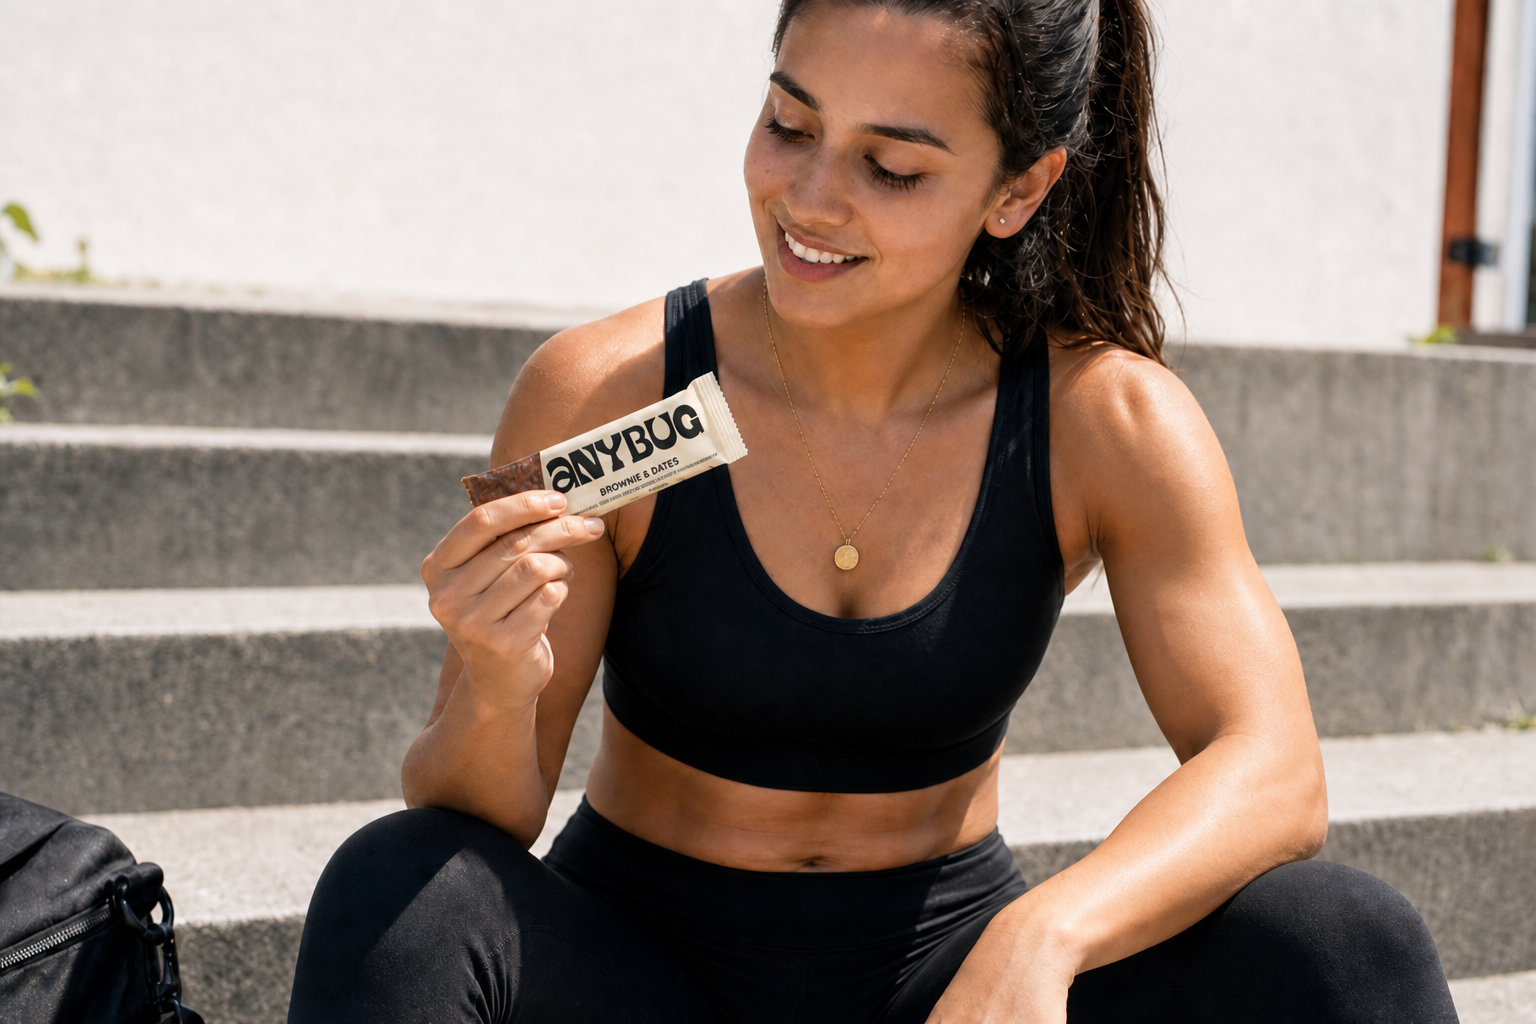
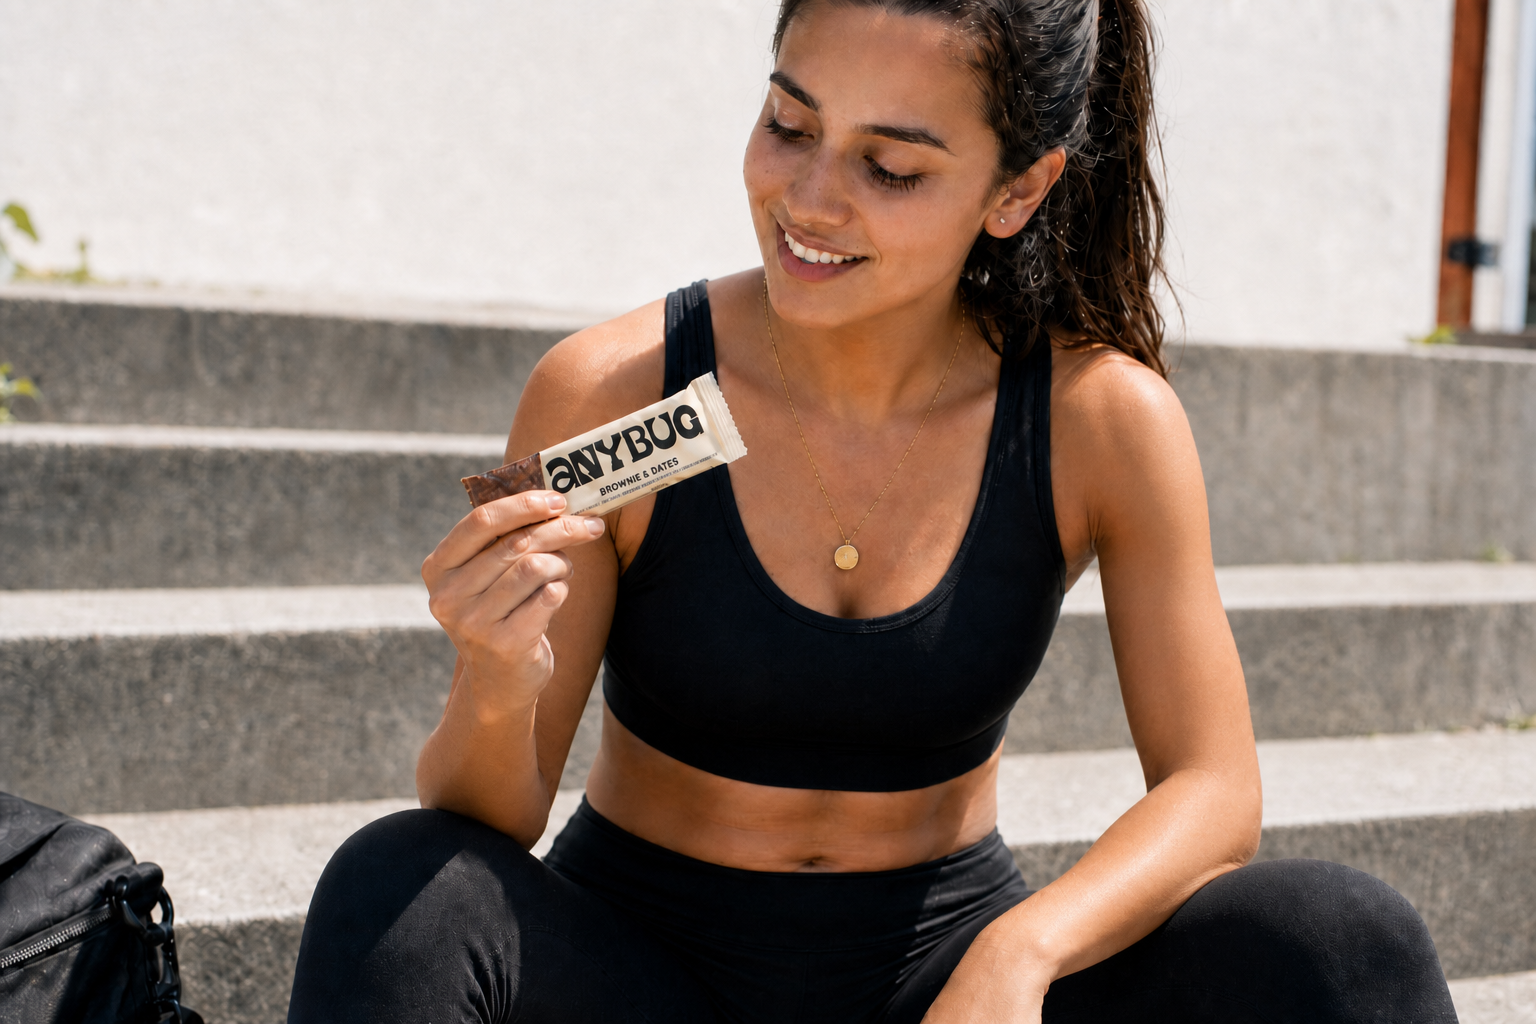
Hero: mas velocidad (2s), brazo mas estilizado, +fotos aesthetic de marca y velo mas ligero para ver colores

diff --git a/src/components/sections/Hero.tsx b/src/components/sections/Hero.tsx
@@ -4,11 +4,14 @@ import { HeroCarousel } from "@/components/sections/HeroCarousel";
 
 const heroSlides = [
   { src: "/lifestyle/adv-trailrun.png", alt: "Corredora de montaña al atardecer" },
-  { src: "/lifestyle/anybug-lifestyle-dunes.png", alt: "Barrita AnyBug sostenida al aire libre en las dunas" },
+  { src: "/lifestyle/aes-stilllife.png", alt: "Barrita AnyBug con dátiles y cacao" },
   { src: "/lifestyle/adv-cycling.png", alt: "Ciclista en una carretera costera al atardecer" },
   { src: "/lifestyle/anybug-sport-natural-1.png", alt: "Deportista con una barrita AnyBug tras entrenar" },
+  { src: "/lifestyle/aes-padel.png", alt: "Jugadora de pádel al atardecer" },
+  { src: "/lifestyle/anybug-lifestyle-dunes.png", alt: "Barrita AnyBug sostenida al aire libre en las dunas" },
   { src: "/lifestyle/adv-hike.png", alt: "Excursionista en la cima de una montaña al amanecer" },
   { src: "/lifestyle/anybug-lifestyle-gym.png", alt: "Manos con vendas de boxeo sujetando una barrita AnyBug" },
+  { src: "/lifestyle/aes-yoga.png", alt: "Mujer haciendo yoga junto al mar al amanecer" },
   { src: "/lifestyle/adv-surf.png", alt: "Surfista caminando por la playa al atardecer" },
 ];
 

diff --git a/src/components/sections/HeroCarousel.tsx b/src/components/sections/HeroCarousel.tsx
@@ -18,7 +18,7 @@ export function HeroCarousel({ slides }: { slides: Slide[] }) {
     if (window.matchMedia("(prefers-reduced-motion: reduce)").matches) return;
     const id = setInterval(() => {
       setIndex((i) => (i + 1) % slides.length);
-    }, 2800);
+    }, 2000);
     return () => clearInterval(id);
   }, [slides.length]);
 
@@ -43,10 +43,10 @@ export function HeroCarousel({ slides }: { slides: Slide[] }) {
         </div>
       ))}
 
-      {/* Velo difuminado + degradados para legibilidad del texto */}
-      <div className="absolute inset-0 bg-white/30" />
-      <div className="absolute inset-0 bg-gradient-to-b from-white/85 via-white/45 to-white/20" />
-      <div className="absolute inset-0 bg-gradient-to-r from-white/80 via-white/35 to-transparent" />
+      {/* Velo ligero + degradados: deja ver el color y mantiene legible el texto */}
+      <div className="absolute inset-0 bg-white/12" />
+      <div className="absolute inset-0 bg-gradient-to-b from-white/70 via-white/25 to-white/15" />
+      <div className="absolute inset-0 bg-gradient-to-r from-white/80 via-white/30 to-transparent" />
     </div>
   );
 }
